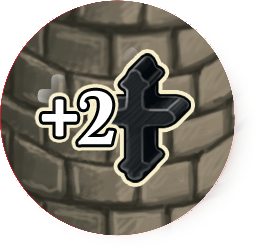
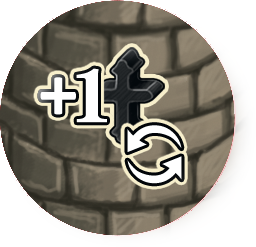
single player Gui

diff --git a/src/main/java/it/polimi/ingsw/client/gui/BaseController.java b/src/main/java/it/polimi/ingsw/client/gui/BaseController.java
@@ -45,10 +45,13 @@ public class BaseController extends ControllerGuiInterface{
     private static final Double[] FAITH_X = { 95.0, 212.0, 329.0, 329.0, 329.0, 446.0, 563.0, 680.0, 797.0, 914.0, 914.0, 914.0, 1031.0, 1148.0, 1265.0, 1382.0, 1499.0, 1499.0, 1499.0, 1616.0, 1733.0, 1850.0, 1967.0, 2084.0, 2201.0};
     private static final Double[] FAITH_Y = {338.0, 338.0, 338.0, 221.0, 104.0, 104.0, 104.0, 104.0, 104.0, 104.0, 221.0, 338.0,  338.0,  338.0,  338.0,  338.0,  338.0,  221.0,  104.0,  104.0,  104.0,  104.0,  104.0,  104.0,  104.0};
     private static final Double FAITH_HEIGHT = 100.0;
-    private static final Double[] GAME_STATUS_X = {2950.0};
+    private static final Double[] GAME_STATUS_X = {3000.0};
     private static final Double[] GAME_STATUS_Y = {10.0};
     private static final Double GAME_STATUS_HEIGHT = 100.0;
     private static final Double GAME_STATUS_WIDTH = 500.0;
+    private static final Double[] TOKEN_X = {3000.0, 3000.0};
+    private static final Double[] TOKEN_Y = {250.0, 700.0};
+    private static final Double TOKEN_SIZE = 300.0;
 
     @FXML
     ImageView board;
@@ -81,12 +84,17 @@ public class BaseController extends ControllerGuiInterface{
     //faithtrack
     private final Image[][] popesImage = new Image[3][2];
     private final Image faith;
+    private final Image blackCross;
     private final ImageView[] faithTrack = new ImageView[25];
     private final ImageView[] popes = new ImageView[3];
     //production
     private final Label[] labels = new Label[3];
     private final ImageView baseProduction = new ImageView();
     private final ArrayList<ProductionPower> chosen = new ArrayList<>();
+    //single player
+    private final Image[] tokens;
+    private final ImageView retro = new ImageView();
+    private final ImageView revealed = new ImageView();
 
     public BaseController(){
         super();
@@ -99,6 +107,13 @@ public class BaseController extends ControllerGuiInterface{
         popesImage[2][1] = new Image("/images/punchboard/pope_favor3_front.png");
 
         faith = new Image("/images/punchboard/faith.png");
+        blackCross = new Image("/images/punchboard/croce.png");
+
+        tokens = new Image[6];
+        for(int i=1; i<=6; i++){
+            tokens[i-1]=new Image("/images/punchboard/cerchio"+i+".png");
+        }
+        retro.setImage(new Image("/images/punchboard/retro_cerchi.png"));
     }
 
     @FXML
@@ -155,6 +170,10 @@ public class BaseController extends ControllerGuiInterface{
         //gamestatus
         GUI.fixLabels(board, BOARD_HEIGHT, new Label[]{gameStatusLabel}, GAME_STATUS_X,   GAME_STATUS_Y,  GAME_STATUS_HEIGHT,  GAME_STATUS_WIDTH);
 
+        //single player
+        anchorPane.getChildren().add(retro);
+        anchorPane.getChildren().add(revealed);
+        GUI.fixImages(board, BOARD_HEIGHT, new ImageView[]{retro, revealed}, TOKEN_X, TOKEN_Y, TOKEN_SIZE);
     }
 
     @Override
@@ -205,6 +224,20 @@ public class BaseController extends ControllerGuiInterface{
             cell.setImage(null);
         }
         faithTrack[gui.getModel().getMe().getFaithTrack().getFaithPoints()].setImage(faith);
+
+        if(gui.getModel().isSinglePlayer()){
+            faithTrack[gui.getModel().getSoloGame().getFaithTrack().getFaithPoints()].setImage(blackCross);
+            if(gui.getModel().getSoloGame().getRevealed()!=null) {
+                revealed.setImage(tokens[gui.getModel().getSoloGame().getRevealed().ordinal()]);
+                revealed.setVisible(true);
+            }else {
+                revealed.setVisible(false);
+            }
+        }else{
+            retro.setVisible(false);
+            revealed.setVisible(false);
+        }
+
 
         chosen.clear();
         checkButtons(true);

diff --git a/src/main/java/it/polimi/ingsw/client/gui/GUI.java b/src/main/java/it/polimi/ingsw/client/gui/GUI.java
@@ -131,11 +131,6 @@ public class GUI extends Application implements UI {
             }
             return;
         }
-        if(this.getModel().getStatus() != GameStatus.Ended && this.getModel().isSinglePlayer()){
-            activate("");
-            //TODO
-            return;
-        }
         if(this.getModel().getStatus() != GameStatus.Ended){
                 if(!this.getModel().isMyTurn()) {
                     activate(BaseController.className);

diff --git a/src/main/java/it/polimi/ingsw/client/modelClient/TokenType.java b/src/main/java/it/polimi/ingsw/client/modelClient/TokenType.java
@@ -1,10 +1,10 @@
 package it.polimi.ingsw.client.modelClient;
 
 public enum TokenType {
-    MOVE_SHUFFLE,
+    DISCARD2_BLUE,
+    DISCARD2_GREEN,
+    DISCARD2_PURPLE,
+    DISCARD2_YELLOW,
     MOVE2,
-    DISCARD2_SERVANTS,
-    DISCARD2_SHIELDS,
-    DISCARD2_COINS,
-    DISCARD2_STONES
+    MOVE_SHUFFLE
 }
